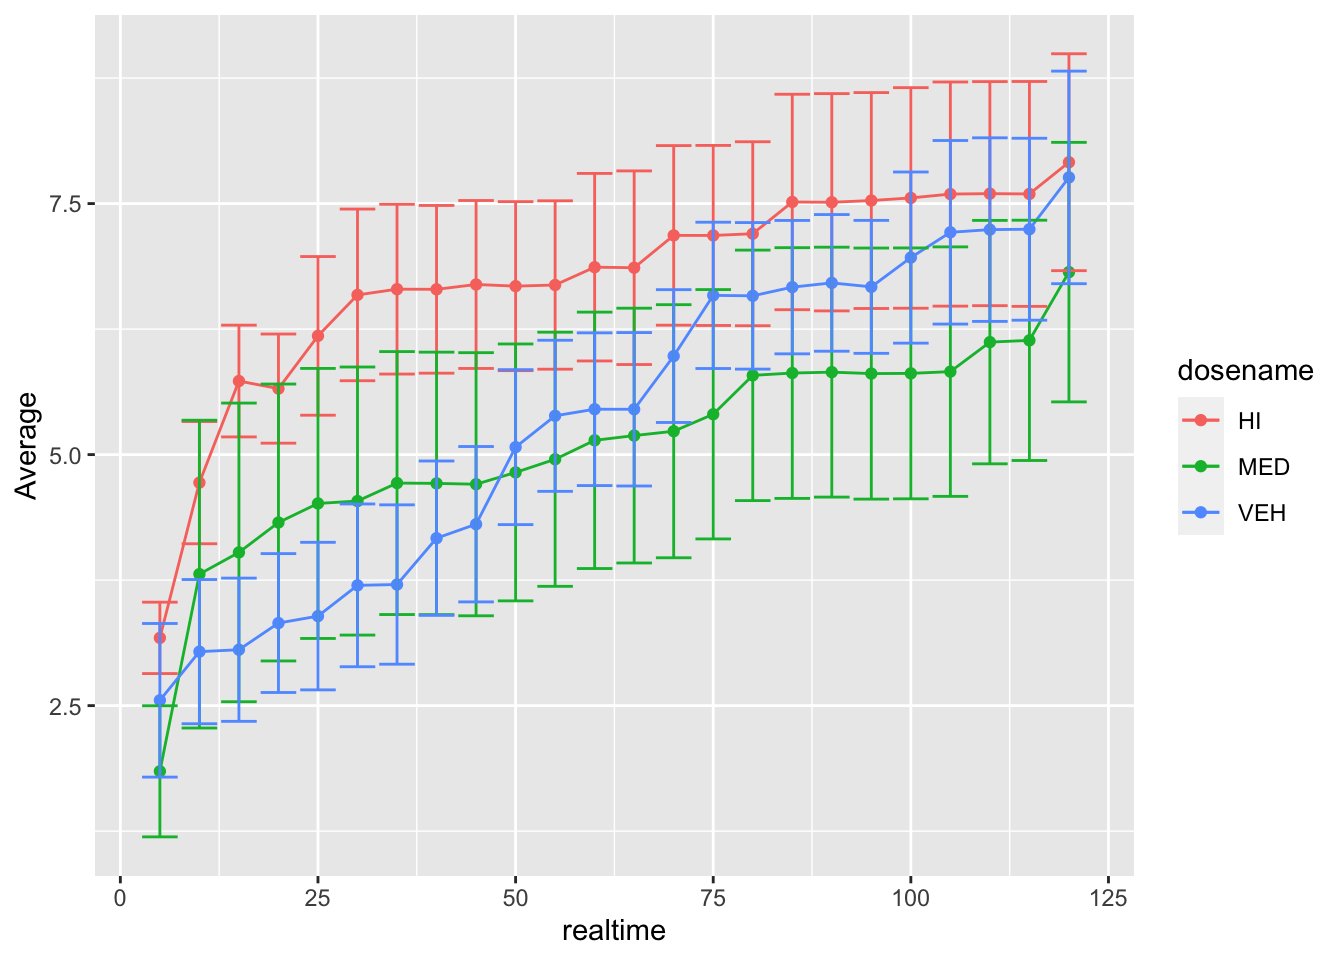
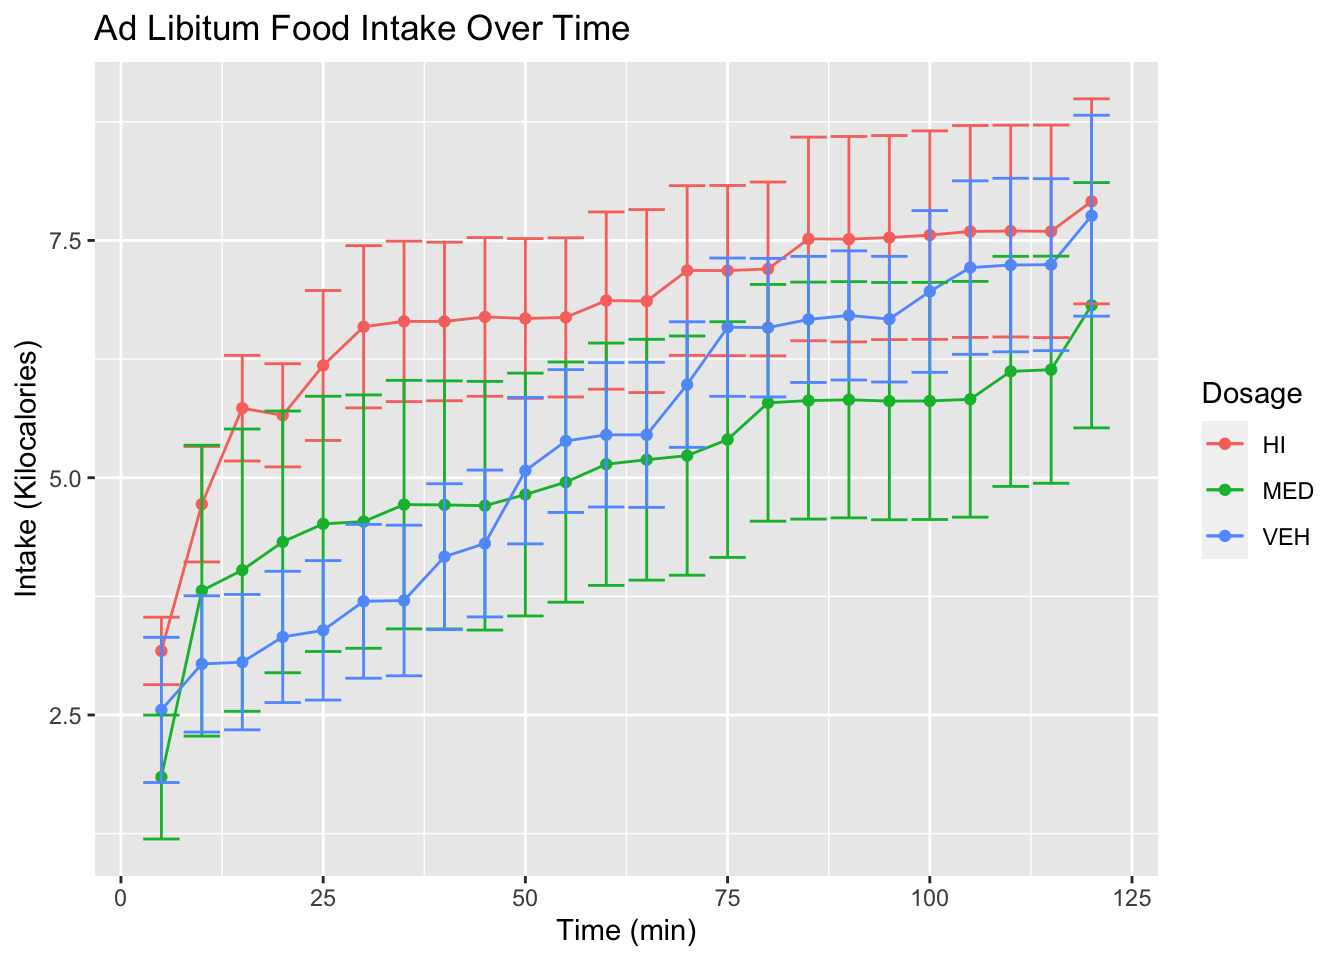
Touched up portfolio 1

diff --git a/docs/about.html b/docs/about.html
@@ -11,9 +11,9 @@
 
 
 
-<title>About This Website</title>
+<title>Table of Contents</title>
 
-<script src="site_libs/header-attrs-2.13/header-attrs.js"></script>
+<script src="site_libs/header-attrs-2.19/header-attrs.js"></script>
 <script src="site_libs/jquery-3.6.0/jquery-3.6.0.min.js"></script>
 <meta name="viewport" content="width=device-width, initial-scale=1" />
 <link href="site_libs/bootstrap-3.3.5/css/bootstrap.min.css" rel="stylesheet" />
@@ -141,11 +141,15 @@ $(document).ready(function () {
     href = "index.html";
   var menuAnchor = $('a[href="' + href + '"]');
 
-  // mark it active
-  menuAnchor.tab('show');
-
-  // if it's got a parent navbar menu mark it active as well
-  menuAnchor.closest('li.dropdown').addClass('active');
+  // mark the anchor link active (and if it's in a dropdown, also mark that active)
+  var dropdown = menuAnchor.closest('li.dropdown');
+  if (window.bootstrap) { // Bootstrap 4+
+    menuAnchor.addClass('active');
+    dropdown.find('> .dropdown-toggle').addClass('active');
+  } else { // Bootstrap 3
+    menuAnchor.parent().addClass('active');
+    dropdown.addClass('active');
+  }
 
   // Navbar adjustments
   var navHeight = $(".navbar").first().height() + 15;
@@ -174,8 +178,8 @@ $(document).ready(function () {
   border-radius: 4px;
 }
 
-.tabset-dropdown > .nav-tabs > li.active:before {
-  content: "";
+.tabset-dropdown > .nav-tabs > li.active:before, .tabset-dropdown > .nav-tabs.nav-tabs-open:before {
+  content: "\e259";
   font-family: 'Glyphicons Halflings';
   display: inline-block;
   padding: 10px;
@@ -183,16 +187,9 @@ $(document).ready(function () {
 }
 
 .tabset-dropdown > .nav-tabs.nav-tabs-open > li.active:before {
-  content: "&#xe258;";
-  border: none;
-}
-
-.tabset-dropdown > .nav-tabs.nav-tabs-open:before {
-  content: "";
+  content: "\e258";
   font-family: 'Glyphicons Halflings';
-  display: inline-block;
-  padding: 10px;
-  border-right: 1px solid #ddd;
+  border: none;
 }
 
 .tabset-dropdown > .nav-tabs > li.active {
@@ -293,36 +290,24 @@ $(document).ready(function () {
 
 
 
-<h1 class="title toc-ignore">About This Website</h1>
+<h1 class="title toc-ignore">Table of Contents</h1>
 
 </div>
 
 
-<p>Donec mollis tempor mi, non rhoncus turpis gravida sed. Fusce a
-sodales ligula. Phasellus suscipit egestas finibus. Aliquam erat
-volutpat. Curabitur sed sagittis massa, eget vulputate dolor. Vivamus
-scelerisque non ante tempus congue. Quisque ut diam nisi. Vestibulum ut
-libero a risus faucibus tristique a sit amet nulla. Vestibulum blandit,
-nisi tristique imperdiet euismod, nisl nulla imperdiet eros, eu
-vulputate purus lectus nec elit.</p>
-<p>Nullam sagittis sollicitudin erat, non semper tellus hendrerit
-hendrerit. Pellentesque viverra malesuada dui. Donec sodales id libero
-ut convallis. Cras molestie, turpis at sagittis ultricies, tortor augue
-venenatis tortor, a imperdiet nunc tortor a nisi. Vestibulum ipsum
-risus, accumsan et elit sed, scelerisque ornare magna. Etiam et massa
-luctus, dapibus justo quis, rhoncus urna. Lorem ipsum dolor sit amet,
-consectetur adipiscing elit. Suspendisse cursus libero libero, vel
-luctus turpis eleifend et.</p>
-<p>Aenean vulputate tincidunt velit at sodales. Cras nulla mi, molestie
-sed enim in, ultrices molestie ante. Morbi interdum sagittis convallis.
-Fusce mauris diam, sagittis sit amet tempus maximus, elementum nec nisl.
-Integer semper diam purus, a porttitor mi sodales quis. Praesent in leo
-in velit pretium tincidunt. Sed congue luctus massa at scelerisque.
-Praesent posuere risus nec placerat elementum. Nullam dapibus a nisi sit
-amet sagittis. Phasellus in purus ac est euismod laoreet et aliquet
-enim. Maecenas sed sapien vulputate, blandit erat posuere, lobortis
-sapien. Morbi tincidunt lacus justo, in finibus ligula convallis ac.
-Integer in efficitur tellus. Maecenas feugiat aliquam imperdiet.</p>
+<ol style="list-style-type: decimal">
+<li><p>Recreating a figure from my first-year project</p></li>
+<li><p>Analyzing my first-year project data</p></li>
+<li><p>Determining diet preferences for my thesis</p></li>
+<li><p>Generating random data for my PSY 312 students</p></li>
+<li><p>Hollywood age gap dataset</p></li>
+<li><p>Vaccines and politics, pt. 1</p></li>
+<li><p>Vaccines and politics, pt. 2</p></li>
+<li><p>Testing for extraneous influences on diet preference
+(thesis)</p></li>
+<li><p>Visualizing my thesis data</p></li>
+<li><p>Numbats!</p></li>
+</ol>
 
 
 

diff --git a/docs/index.html b/docs/index.html
@@ -13,7 +13,7 @@
 
 <title>My Portfolio</title>
 
-<script src="site_libs/header-attrs-2.13/header-attrs.js"></script>
+<script src="site_libs/header-attrs-2.19/header-attrs.js"></script>
 <script src="site_libs/jquery-3.6.0/jquery-3.6.0.min.js"></script>
 <meta name="viewport" content="width=device-width, initial-scale=1" />
 <link href="site_libs/bootstrap-3.3.5/css/bootstrap.min.css" rel="stylesheet" />
@@ -141,11 +141,15 @@ $(document).ready(function () {
     href = "index.html";
   var menuAnchor = $('a[href="' + href + '"]');
 
-  // mark it active
-  menuAnchor.tab('show');
-
-  // if it's got a parent navbar menu mark it active as well
-  menuAnchor.closest('li.dropdown').addClass('active');
+  // mark the anchor link active (and if it's in a dropdown, also mark that active)
+  var dropdown = menuAnchor.closest('li.dropdown');
+  if (window.bootstrap) { // Bootstrap 4+
+    menuAnchor.addClass('active');
+    dropdown.find('> .dropdown-toggle').addClass('active');
+  } else { // Bootstrap 3
+    menuAnchor.parent().addClass('active');
+    dropdown.addClass('active');
+  }
 
   // Navbar adjustments
   var navHeight = $(".navbar").first().height() + 15;
@@ -174,8 +178,8 @@ $(document).ready(function () {
   border-radius: 4px;
 }
 
-.tabset-dropdown > .nav-tabs > li.active:before {
-  content: "";
+.tabset-dropdown > .nav-tabs > li.active:before, .tabset-dropdown > .nav-tabs.nav-tabs-open:before {
+  content: "\e259";
   font-family: 'Glyphicons Halflings';
   display: inline-block;
   padding: 10px;
@@ -183,16 +187,9 @@ $(document).ready(function () {
 }
 
 .tabset-dropdown > .nav-tabs.nav-tabs-open > li.active:before {
-  content: "&#xe258;";
-  border: none;
-}
-
-.tabset-dropdown > .nav-tabs.nav-tabs-open:before {
-  content: "";
+  content: "\e258";
   font-family: 'Glyphicons Halflings';
-  display: inline-block;
-  padding: 10px;
-  border-right: 1px solid #ddd;
+  border: none;
 }
 
 .tabset-dropdown > .nav-tabs > li.active {
@@ -308,21 +305,6 @@ Science for Psychologists</a>. You can find the links to individual
 portfolio pieces in the header. Each piece has a description of the
 goal, the product (computer program, hand graph, computer graph, etc.),
 the data, and some interpretation. I encourage you to explore them.</p>
-<p>Lorem ipsum dolor sit amet, consectetur adipiscing elit. Phasellus eu
-tortor ac lectus vestibulum imperdiet eget nec elit. Nam enim elit,
-condimentum vel vulputate et, bibendum id leo. Nam faucibus enim nec
-libero auctor finibus. Integer eu nisl a leo commodo interdum vel eu
-augue. Fusce gravida enim non augue porttitor malesuada. Integer tempor
-mattis quam at scelerisque. Sed scelerisque tristique gravida.
-Vestibulum ante ipsum primis in faucibus orci luctus et ultrices posuere
-cubilia curae;</p>
-<p>Vivamus non faucibus erat. Class aptent taciti sociosqu ad litora
-torquent per conubia nostra, per inceptos himenaeos. Proin facilisis
-nunc non tristique molestie. Ut semper laoreet dignissim. Integer
-venenatis augue quis metus finibus rhoncus. Praesent et metus auctor,
-tempus magna ac, euismod purus. Sed nulla augue, maximus vel convallis
-viverra, interdum et nulla. Aenean neque magna, varius vitae mi sed,
-consequat lobortis quam.</p>
 
 
 

diff --git a/docs/p01.html b/docs/p01.html
@@ -345,7 +345,7 @@ plot intake over time:</p>
                                   y = Intake,
                                   color = dosename)) + 
   geom_point() + 
-  geom_line()</code></pre>
+  geom_line() </code></pre>
 <p><img src="p01_files/figure-html/first-pass-1.png" width="672" /></p>
 <p>At this point I realized that the points in my original plot are
 group <em>means</em>, and the points in my current data frame are from
@@ -435,9 +435,13 @@ ggplot(mapping = aes(x = realtime,
                      color = dosename)) + 
   geom_point() + 
   geom_line() + 
-  geom_errorbar(aes(ymin = Average - (StDev/sqrt(7)), ymax = Average + StDev/sqrt(7)))</code></pre>
+  geom_errorbar(aes(ymin = Average - (StDev/sqrt(7)), ymax = Average + StDev/sqrt(7))) +
+#I realized the error bars actually were standard errors, so I divided StDev by sqrt(7) to convert
+  labs(title = &quot;Ad Libitum Food Intake Over Time&quot;,
+       x = &quot;Time (min)&quot;, 
+       y = &quot;Intake (Kilocalories)&quot;,
+       color = &quot;Dosage&quot;)</code></pre>
 <p><img src="p01_files/figure-html/graph-with-error-bars-1.png" width="672" /></p>
-<pre class="r"><code>#I realized the error bars actually were standard errors, so I divided StDev by sqrt(7) to convert</code></pre>
 <p>And here we have our finished plot!</p>
 <p>I want to point out that this plot is good, but it isn’t
 <em>great</em>. An alternative way to represent it that jumps out at me
@@ -448,7 +452,11 @@ ggplot(mapping = aes(x = realtime,
                      y = Intake,
                      color = dosename)) + 
   geom_point() + 
-  geom_smooth()</code></pre>
+  geom_smooth() +
+  labs(title = &quot;Ad Libitum Food Intake Over Time&quot;,
+       x = &quot;Time (min)&quot;, 
+       y = &quot;Intake (Kilocalories)&quot;,
+       color = &quot;Dosage&quot;)</code></pre>
 <pre><code>## `geom_smooth()` using method = &#39;loess&#39; and formula = &#39;y ~ x&#39;</code></pre>
 <p><img src="p01_files/figure-html/smooth-alternative-1.png" width="672" />
 A little messy, but there’s potential I think!</p>
